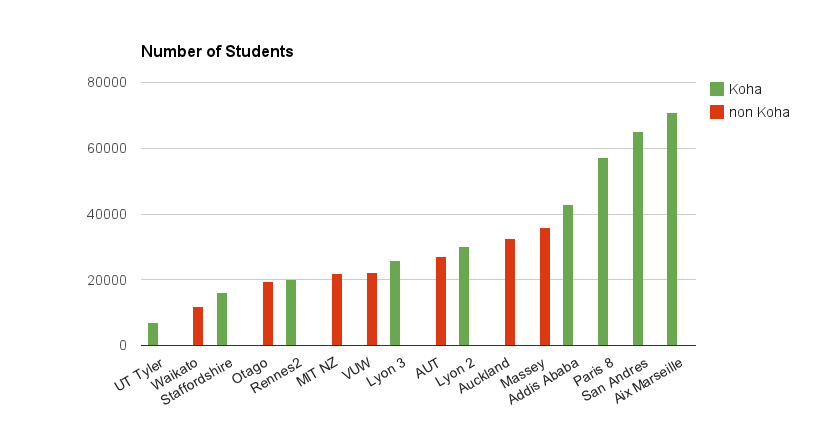
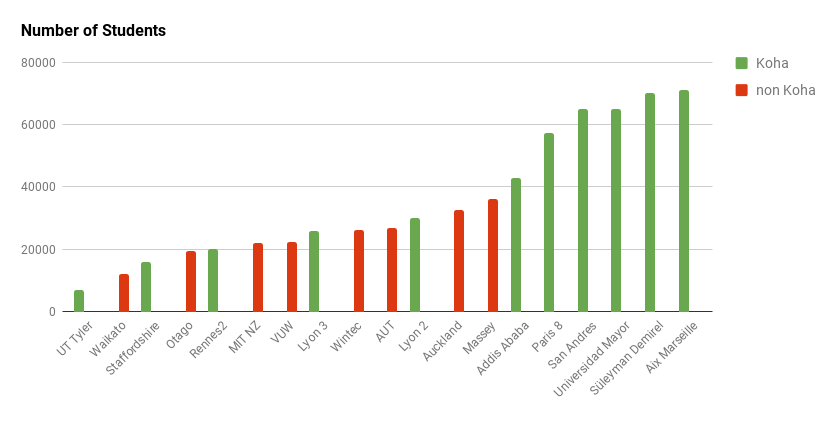
Updating for WINTEC

diff --git a/intro_pres/index.html b/intro_pres/index.html
@@ -97,7 +97,7 @@
 <center><h2>Schools</h2></center>
 <img src="images/obs.png">
 </section>
--->
+
 <section class="slide" id="locked">
 <center><h2>Corrections</h2></center>
 <img src="images/prison.png">
@@ -117,17 +117,17 @@
 <center><h2>Public Libraries</h2></center>
 <img src="images/publics.png">
 </section>
-
+-->
 <!--<section class="slide" id="indigenous">
 <center><h2>Indigenous communities</h2></center>
 <img src="images/nunavut.png">
 </section>
-
+-->
 
 <section class="slide" id="pops">
 <center><h2>Academic Libraries and Koha</h2></center>
 <img src="images/koha-stud-pops2.png">
-</section>-->
+</section>
 <!--
 <section class="slide" id="how">
 <center><h2>How does this work?</h2></center>
